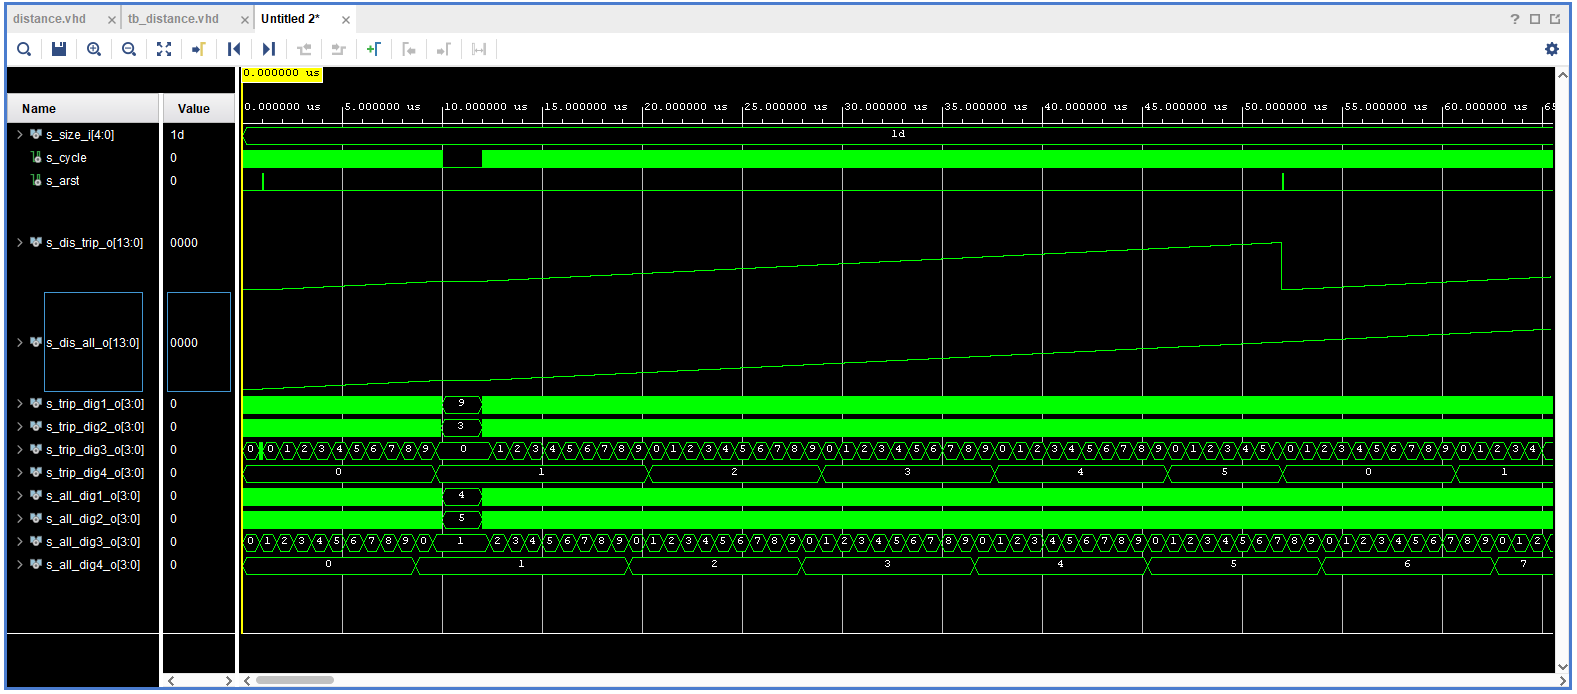
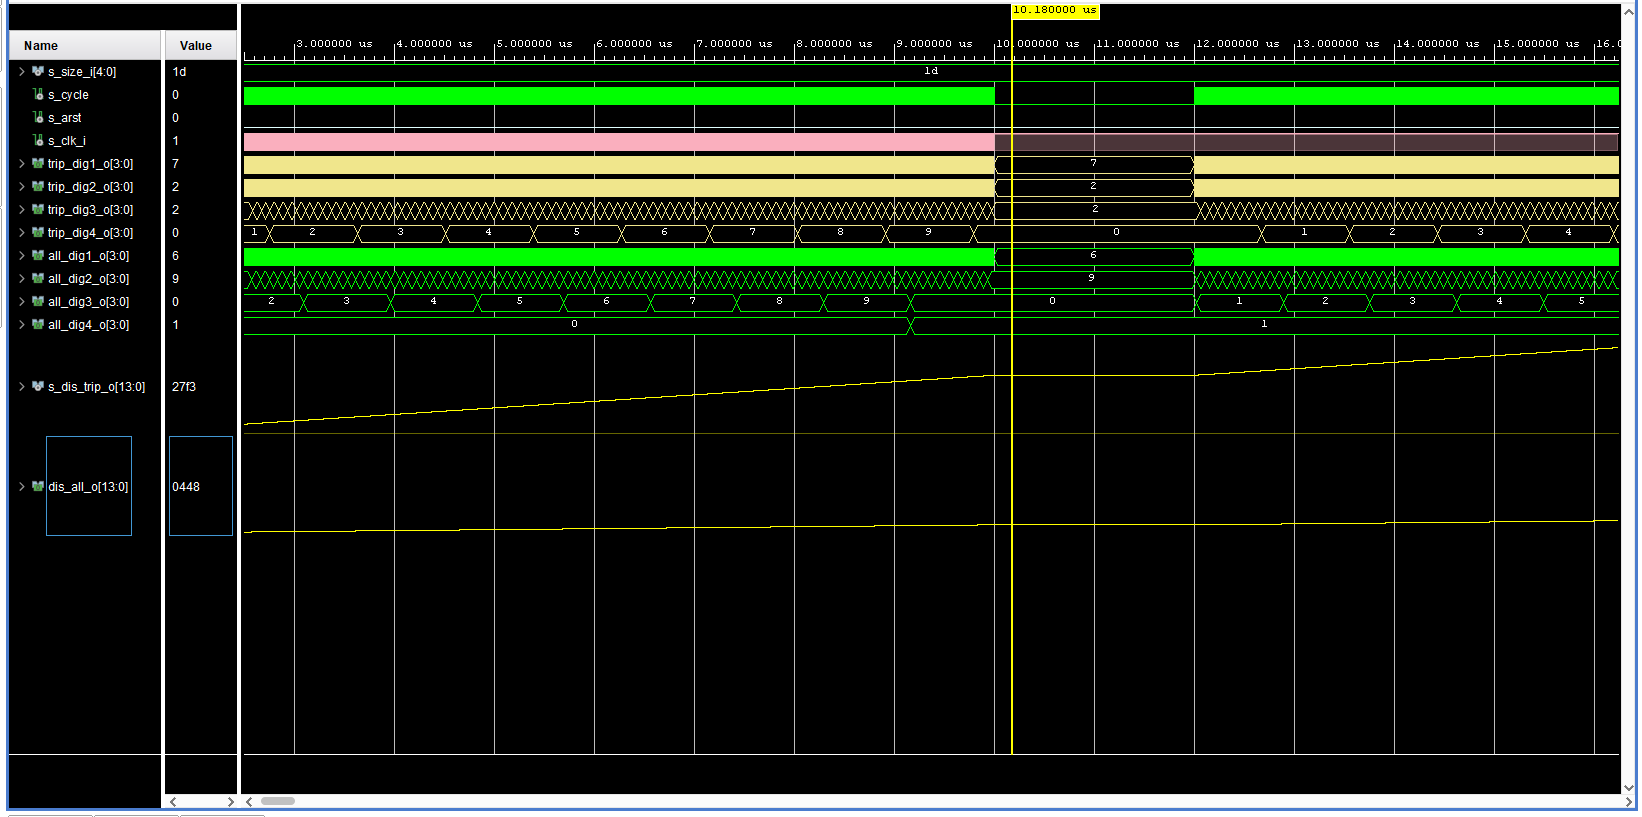
doc

diff --git a/Slavik cycle+count_1sec/REDAME.md b/Slavik cycle+count_1sec/REDAME.md
@@ -449,21 +449,23 @@ Inputs, outputs and signals:
 
 ```vhdl
 entity distance is
-    Port ( size_i : in STD_LOGIC_VECTOR (5 - 1 downto 0);           -- size of the bike 
-           cycle_i : in STD_LOGIC;                                  -- 1 when theres signal from sond, 0 others
-           rst_i : in STD_LOGIC;                                   -- to reset trip
-           dis_trip_o : out STD_LOGIC_VECTOR (14 - 1 downto 0);     -- distance in km trip
-           dis_all_o : out STD_LOGIC_VECTOR (14 - 1 downto 0);     -- total distance in km
+    Port ( 
+           clk              : in STD_LOGIC;
+           size_i           : in STD_LOGIC_VECTOR (5 - 1 downto 0);           -- size of the bike 
+           cycle_i          : in STD_LOGIC;                                  -- 1 when theres signal from sond, 0 others
+           reset            : in STD_LOGIC;                                   -- to reset trip
+           dis_trip_o       : out STD_LOGIC_VECTOR (19 - 1 downto 0);     -- distance in km trip
+      --   dis_all_o        : out STD_LOGIC_VECTOR (14 - 1 downto 0);     -- total distance in km   -- only for testing
            
-           trip_dig1_o        : out STD_LOGIC_VECTOR  (4 - 1 downto 0);     -- 1 trip distance value for 1. digit 
-           trip_dig2_o        : out STD_LOGIC_VECTOR  (4 - 1 downto 0);     -- 1 trip distance value for 2. digit 
-           trip_dig3_o        : out STD_LOGIC_VECTOR  (4 - 1 downto 0);     -- 1 trip distance value for 3. digit 
-           trip_dig4_o        : out STD_LOGIC_VECTOR  (4 - 1 downto 0);     -- 1 trip distance value for 4. digit 
+           trip_dig1_o        : out STD_LOGIC_VECTOR  (4 - 1 downto 0);     -- 1 trip distance value for 1. digit (100)
+           trip_dig2_o        : out STD_LOGIC_VECTOR  (4 - 1 downto 0);     -- 1 trip distance value for 2. digit (10)
+           trip_dig3_o        : out STD_LOGIC_VECTOR  (4 - 1 downto 0);     -- 1 trip distance value for 3. digit (1)
+           trip_dig4_o        : out STD_LOGIC_VECTOR  (4 - 1 downto 0);     -- 1 trip distance value for 4. digit (.1)
            
-           all_dig1_o         : out STD_LOGIC_VECTOR  (4 - 1 downto 0);     -- Total distance value for 1. digit 
-           all_dig2_o         : out STD_LOGIC_VECTOR  (4 - 1 downto 0);     -- Total distance value for 2. digit 
-           all_dig3_o         : out STD_LOGIC_VECTOR  (4 - 1 downto 0);     -- Total distance value for 3. digit 
-           all_dig4_o         : out STD_LOGIC_VECTOR  (4 - 1 downto 0)      -- Total distance value for 4. digit 
+           all_dig1_o         : out STD_LOGIC_VECTOR  (4 - 1 downto 0);     -- Total distance value for 1. digit (1000)
+           all_dig2_o         : out STD_LOGIC_VECTOR  (4 - 1 downto 0);     -- Total distance value for 2. digit (100)
+           all_dig3_o         : out STD_LOGIC_VECTOR  (4 - 1 downto 0);     -- Total distance value for 3. digit (10)
+           all_dig4_o         : out STD_LOGIC_VECTOR  (4 - 1 downto 0)      -- Total distance value for 4. digit (1)
           
           );
            
@@ -473,12 +475,14 @@ end distance;
 architecture Behavioral of distance is
 
       
-        signal s_size_local     : unsigned (11 - 1 downto 0);                           -- local number, how many cycles are needed to one km distance
-        signal s_count          : unsigned (11 - 1 downto 0) := "00000000000";          -- counting cycles
+        signal s_size_local             : unsigned (11 - 1 downto 0);   
+        signal s_size_local_trip        : unsigned (11 - 1 downto 0);                        -- local number, how many cycles are needed to one km distance
+        signal s_count                  : unsigned (11 - 1 downto 0) := "00000000000";          -- counting cycles
+        signal s_count_trip             : unsigned (11 - 1 downto 0) := "00000000000"; 
 
 
-        signal s_dis_trip_local   : unsigned (14 - 1 downto 0) := "00000000000000";     -- local signal for trip dist (output to avg speed) and for local testing and other use)
-        signal s_dis_all_local     : unsigned (14 - 1 downto 0) := "00000000000000";    -- local signal for all dist    (-||-)
+        signal s_dis_trip_local    : unsigned (19 - 1 downto 0) := "0000000000000000000";     -- local signal for trip dist (output to avg speed) and for local testing and other use)
+     -- signal s_dis_all_local     : unsigned (14 - 1 downto 0) := "00000000000000";    -- local signal for all dist    (-||-)
         
         signal s_trip_dig1_o        : unsigned (4 - 1 downto 0) := "0000";              -- local outputs fot digits on 7-seg
         signal s_trip_dig2_o        : unsigned (4 - 1 downto 0) := "0000";
@@ -597,8 +601,8 @@ if rising_edge(rst_i) then                     -- when rst singal from user rese
 Setting local signals to logic vector outputs:
 
 ```vhdl
-dis_trip_o <= std_logic_vector(s_dis_trip_local);
-        dis_all_o <= std_logic_vector(s_dis_all_local);
+          dis_trip_o <= std_logic_vector(s_dis_trip_local);
+         -- dis_all_o <= std_logic_vector(s_dis_all_local);  -- only for testing
         
         
         trip_dig1_o   <= std_logic_vector(s_trip_dig1_o);
@@ -610,7 +614,6 @@ dis_trip_o <= std_logic_vector(s_dis_trip_local);
         all_dig2_o    <= std_logic_vector(s_all_dig2_o);
         all_dig3_o    <= std_logic_vector(s_all_dig3_o);
         all_dig4_o    <= std_logic_vector(s_all_dig4_o); 
-
 ```
 Simulation:
 ![distance_sim1](images/distance_sim_1.PNG)
